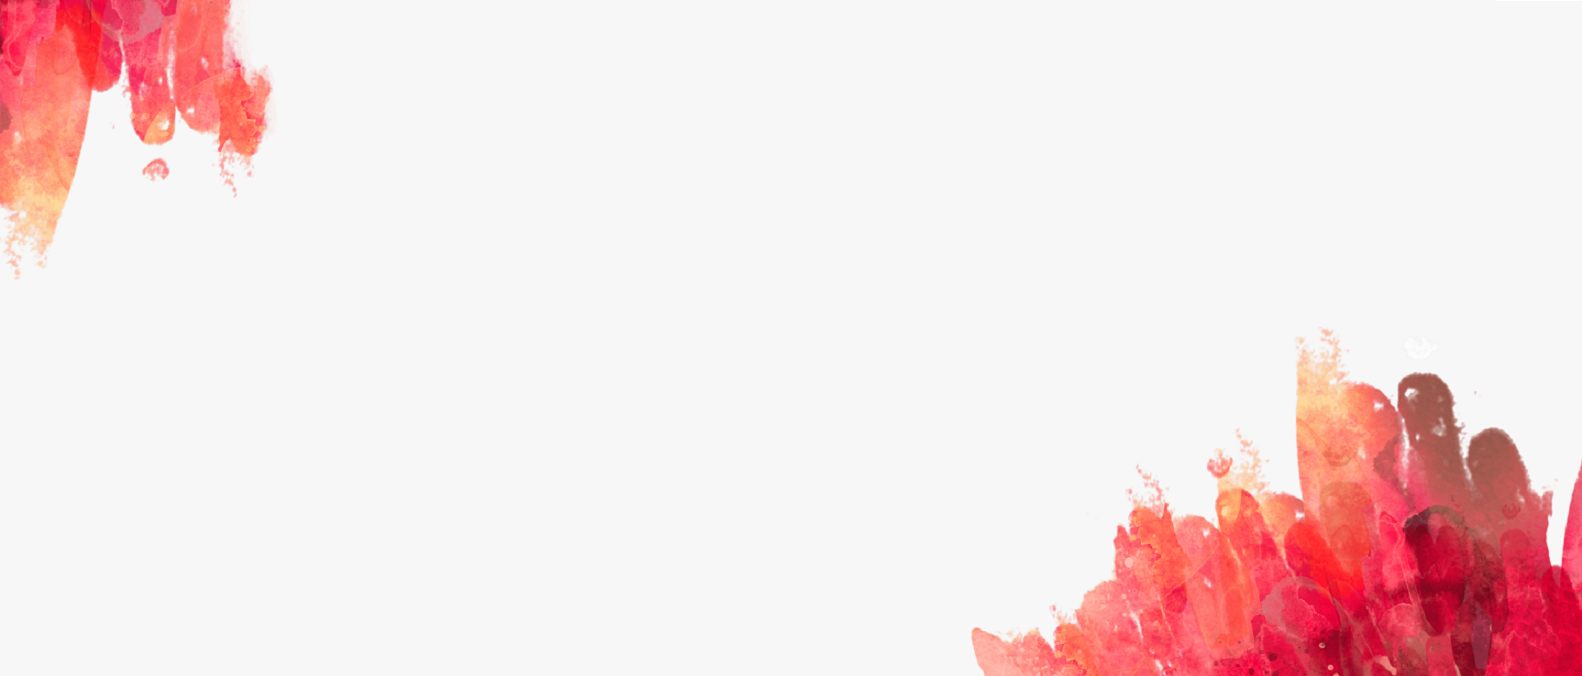
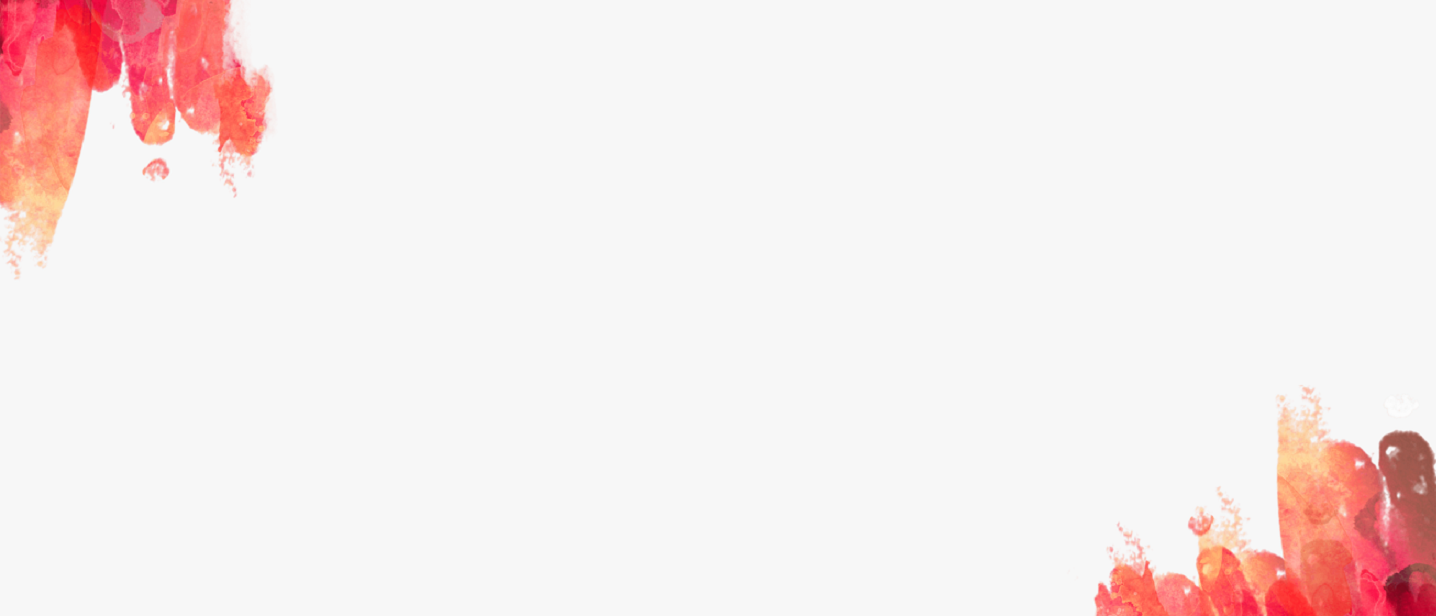
changes

Changed region(s): [[0.6128, 0.4935, 1.0, 1.0], [0.0, 0.0, 0.2145, 0.4318]]

diff --git a/index.html b/index.html
@@ -493,7 +493,7 @@
         </div>
     </section>
     <section class="project-area section-gap" id="project" style=" padding-bottom: 60px; padding-top: 60px;  background-image: url(img/impact_bg.jpg
-    ); background-size:100% ">
+    ); background-size:100% ; ">
         <h2 align="center"> Our Impact</h2>
         <hr align="center" width=50% height=5px color=black> <br><br>
         <div class="container">
@@ -736,7 +736,7 @@
     <section class="testimonial-area" id="testimonial">
         <!-- <div class="container-fluid" style="background-image: url('img/internbg.jpg'); background-repeat : no-repeat; background-size : 100% 100% "> -->
     
-			  <div class="container-fluid" style="background-image: url('img/intern_bg.png'); width: auto; height: 100% ;">
+			  <div class="container-fluid" style="background-image: url('img/intern_bg.png');background-size:100% 100% ;">
             <h1 class="text-center mb-3">
                 <font color=black><br>Interns Speak<br></font>
             </h1>
